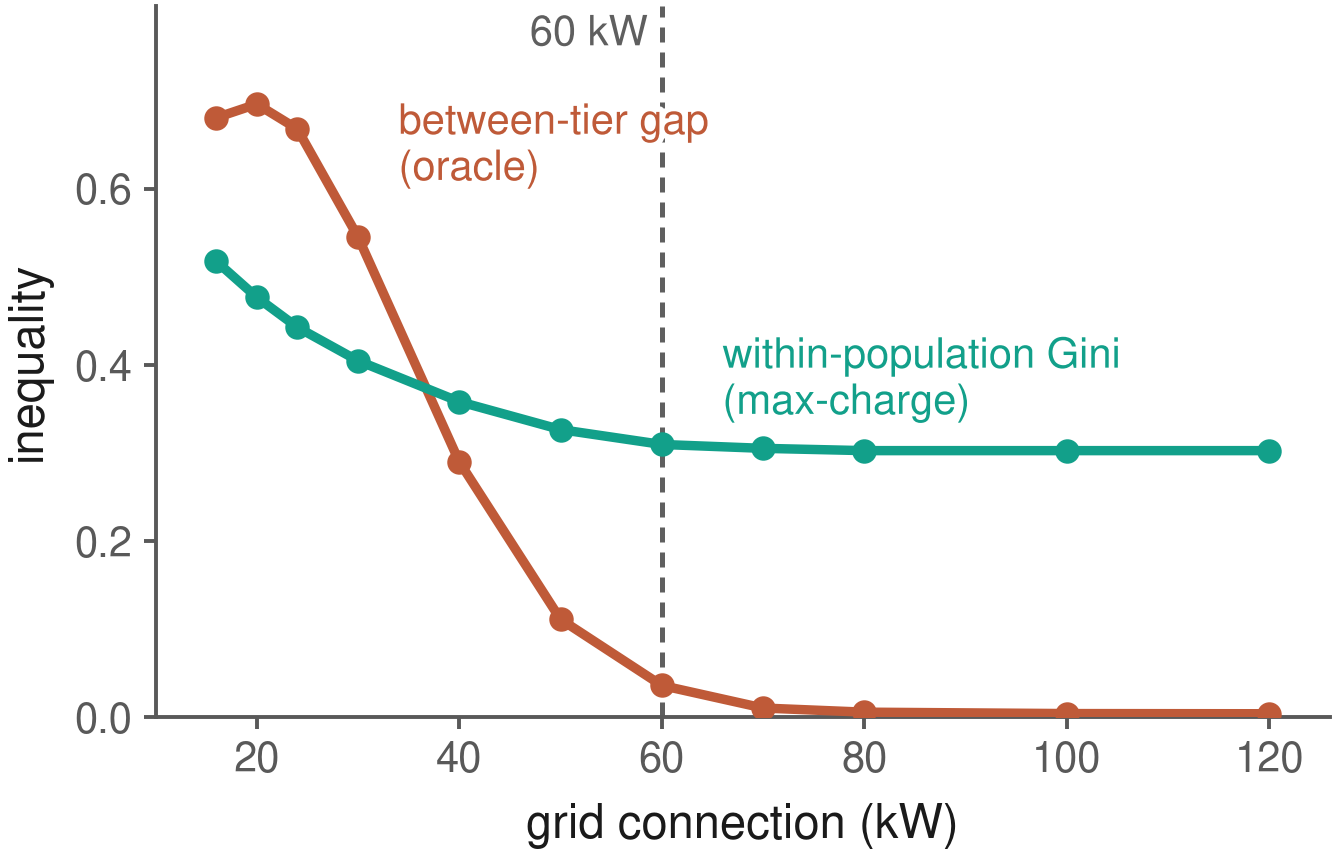
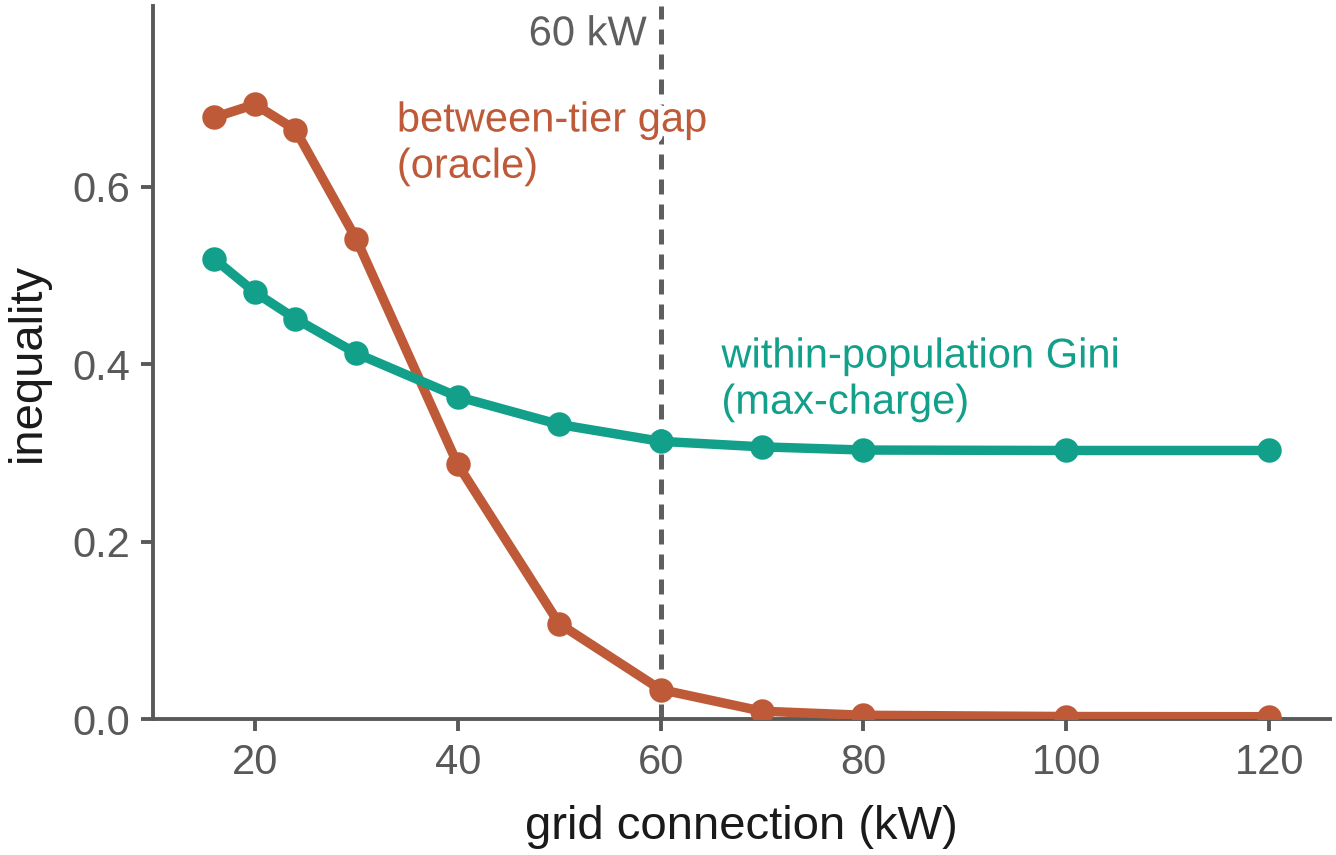
Figures for the battery-free framing; retire the in-repo manuscript
- plot_mechanism.py: revenue axis in margin-weighted kWh/day (not EUR); capacity figure
  drawn from the battery-free sweep when audit_capacity_nobattery.json exists
- audit_scarcity_severity.py: ACN-Data label placed clear of the highway label and curve
- regenerated oracle_tradeoff, capacity_threshold, scarcity_severity (results + paper)
- check_manuscript_numbers.py: recomputes every value the live manuscript prints
- paper/: manuscript now lives in Overleaf; old copy kept as
  archive_facct27_equicharge_2026-08.tex so make gate/paper still run;
  new 'make manuscript-check TEX=...' target for the Overleaf export

Claude-Session: https://claude.ai/code/session_01V4ZaVPJDMdDF6V2qS9R1Jo

diff --git a/EquiCharge-RLC2027/experiments/check_manuscript_numbers.py b/EquiCharge-RLC2027/experiments/check_manuscript_numbers.py
@@ -1,0 +1,210 @@
+"""Check that the numbers printed in the FAccT manuscript match the released results.
+
+Every value below is recomputed from the JSON files in experiments/results/ (the 256-day
+run) and looked up verbatim in the .tex file. A mismatch means the paper and the results
+have drifted apart again.
+
+Usage (from EquiCharge-RLC2027/):
+    python check_manuscript_numbers.py path/to/facct27_14pages.tex
+"""
+import json
+import math
+import os
+import re
+import sys
+
+TEX = sys.argv[1]
+RES = sys.argv[2] if len(sys.argv) > 2 else "experiments/results"
+
+
+def load(name):
+    return json.load(open(os.path.join(RES, name)))
+
+
+def norm(t):
+    """Drop comment lines and collapse whitespace so line breaks do not matter."""
+    t = "\n".join(l for l in t.split("\n") if not l.lstrip().startswith("%"))
+    return re.sub(r"\s+", " ", t)
+
+
+tex = norm(open(TEX).read())
+off = load("audit_offline.json")
+mech = load("audit_mechanism.json")
+gro = load("audit_grounding.json")
+rob = load("audit_robustness.json")
+est = load("audit_estimator_check.json")
+lev = load("audit_levers.json")
+sev = load("scarcity_severity.json")
+mg = load("audit_margin_greedy.json")
+res = load("results.json")
+
+
+def f2(x):
+    return "%.2f" % x
+
+
+def pct(x):
+    return "%d\\%%" % round(100 * x)
+
+
+def H(counts):
+    n = sum(counts.values())
+    return -sum(c / n * math.log(c / n) for c in counts.values() if c) / math.log(3)
+
+
+checks = []  # (description, string that must appear in the manuscript)
+
+# --- day count -------------------------------------------------------------------------
+assert off["n_days"] == 256 and mech["day_set"]["used_after_filter"] == 256
+checks.append(("day count", "two hundred fifty-six realized days"))
+
+# --- Table 1 (elasticity sweep) ----------------------------------------------------------
+gap_by_eta = {r["eta"]: r["gap"] for r in mech["elasticity_invariance"]}
+for eta, label in [(0.2, "elasticity $0.2$ (weak spread)"), (0.6, "elasticity $0.6$ (reference)"),
+                   (1.0, "elasticity $1.0$ (strong spread)")]:
+    g = gro["elasticity_sweep"]["%.1f" % eta]
+    row = "%s & %.3f & %s & %.1f\\%% \\\\" % (label, gap_by_eta[eta], pct(g["budget_worst_fraction"]),
+                                            g["revenue_pof_pct"]["median"])
+    checks.append(("Table 1 eta=%.1f" % eta, row))
+g0 = gro["elasticity_sweep"]["0.0"]
+checks.append(("Table 1 eta=0", "elasticity $0$ (no spread) & %.3f & %s & 0\\%% \\\\"
+               % (gap_by_eta[0.0], pct(g0["budget_worst_fraction"]))))
+
+# --- Table 2 (oracle) ----------------------------------------------------------------------
+names = [("profit", "revenue optimal"), ("utilitarian", "utilitarian"),
+         ("maximin", "tier maximin (true)"), ("egalitarian_equal", "strict equalization")]
+for key, label in names:
+    o = res["oracle"][key]
+    gm = o["group_means"]
+    row = "%s & %s & %s & %s & %s & %d \\\\" % (label, f2(gm[0]), f2(gm[1]), f2(gm[2]),
+                                               f2(o["group_disparity"]), round(o["revenue_value"]))
+    checks.append(("Table 2 " + key, row))
+
+# --- price of fairness: one definition, one value ---------------------------------------
+pof = off["box1"]["revenue_price_of_fairness_pct"]["median"]
+assert round(pof, 1) == 10.5
+checks.append(("PoF definition", "computed for each day and reported as the median over days"))
+checks.append(("PoF in text", "a median near ten and a half percent"))
+
+# --- Table 3 (tariff mechanism) -----------------------------------------------------------
+tm = {r["config"]: r for r in mech["mechanism"]}
+for cfg, label, margins, spread in [
+        ("status_quo_distinct", "tiered (status quo)", "0.6, 1.0, 1.5", "0.9"),
+        ("premium_capped_to_mid", "premium cap to middle", "0.6, 1.0, 1.0", "0.4"),
+        ("budget_tied_to_mid", "budget subsidy to parity", "1.0, 1.0, 1.5", "0.5"),
+        ("fully_flat", "income neutral (equal)", "all equal", "0.0")]:
+    checks.append(("Table 3 " + cfg, "%s & %s & %s & %s &" % (label, margins, spread, f2(tm[cfg]["gap"]))))
+checks.append(("rank chart caption", "($%s$ versus $%s$)" % (f2(tm["premium_capped_to_mid"]["gap"]),
+                                                              f2(tm["budget_tied_to_mid"]["gap"]))))
+
+# --- Table 4 (sites) -----------------------------------------------------------------------
+sites = [("reference_16ch_30kW_residential_eu", "reference (16 ch, 30 kW)", "%.2f"),
+         ("highway_20ch_45kW_eu_highrate", "highway (20 ch, 45 kW)", "%.2f"),
+         ("workplace_24ch_55kW_us", "workplace (24 ch, 55 kW)", "%.3f"),
+         ("shopping_8ch_16kW_world", "shopping (8 ch, 16 kW)", "%.2f")]
+for cfg, label, gfmt in sites:
+    c = rob["configs"][cfg]
+    pd_gap = est["check1_rotation"][cfg]["per_day_gap_median"]
+    p = c["revenue_pof_pct"]["median"]
+    pof_cell = "0\\%" if round(p, 1) == 0 else "%.1f\\%%" % p
+    gam = gfmt % c["profit_optimal_disparity_dayavg"]
+    row = "%s & %s & %s" % (label, pct(c["budget_worst_fraction"]), gam)
+    checks.append(("Table 4 %s (worst, Gamma)" % label, row))
+    checks.append(("Table 4 %s (per-day, H, PoF)" % label,
+                   "%s & %s & %s \\\\" % (f2(pd_gap), f2(H(c["worst_tier_days"])), pof_cell)))
+
+# --- levers --------------------------------------------------------------------------------
+pl, cl = lev["pricing_lever_30kW_sq_to_flat"], lev["capacity_lever_sq_30_to_90kW"]
+checks.append(("capacity lever", "between-tier gap, by about $%s$, and the within-population inequality, by about $%s$"
+               % (f2(cl["d_between_tier_gap"]), f2(cl["d_within_tier_gini"]))))
+checks.append(("pricing lever", "between-tier gap, about $%s$, while barely moving the within-population inequality, about $%s$"
+               % (f2(pl["d_between_tier_gap"]), f2(pl["d_within_tier_gini"]))))
+
+# --- severity axis ------------------------------------------------------------------------
+sw = {r["grid_kw"]: r for r in sev["capacity_sweep"]}
+checks.append(("severity sweep start", "collapses from $%s$ to noise" % f2(sw[40]["gamma"])))
+checks.append(("severity shopping/highway", "with $\\Gamma\\approx %s$ and highway at $\\rho\\approx %.1f$ with $\\Gamma\\approx %s$"
+               % (f2(sev["sites"]["shopping"]["gamma"]), sev["sites"]["highway"]["demand_capacity_ratio"],
+                  f2(sev["sites"]["highway"]["gamma"]))))
+assert "acn" in sev["sites"]  # the released file includes ACN; the figure in this version omits it
+
+# --- margin-greedy (Appendix B), battery-free station ------------------------------
+mgn = load("audit_margin_greedy_nobattery.json")
+r = mgn["reference"]
+checks.append(("greedy Gamma and H", "$\\Gamma\\approx %s$ and rotation entropy $H\\approx %s$"
+               % (f2(r["gamma"]), f2(r["worst_tier_entropy"]))))
+others = mgn["other_online_baselines"]
+gmin, gmax = min(v["gamma"] for v in others.values()), max(v["gamma"] for v in others.values())
+checks.append(("non-rationing heuristics", "$\\Gamma\\approx %.3f$ to $%.3f$" % (gmin, gmax)))
+assert round(min(v["worst_tier_entropy"] for v in others.values()), 2) == 1.00
+assert round(r["budget_worst_share"] * 100) == 85
+checks.append(("greedy budget-worst share", "worst-served on eighty-five percent of days"))
+checks.append(("greedy offline gap, same days", "of the offline optimum's gap on the same days ($%s$)"
+               % f2(r["offline_profit_optimal"]["gamma"])))
+sweep = {s_["grid_kw"]: s_ for s_ in mgn["scarcity_sweep"]}
+checks.append(("greedy sweep", "gap falls from about $%s$ at thirty kilowatts" % f2(sweep[30.0]["gamma"])))
+checks.append(("greedy sweep 45 kW", "to about $%s$ by forty-five kilowatts" % f2(sweep[45.0]["gamma"])))
+checks.append(("greedy sweep 60 kW", "to about $%s$ by sixty" % f2(sweep[60.0]["gamma"])))
+checks.append(("greedy profit", "about %d euros per day against about %d for max-charge"
+               % (round(r["profit_per_day"]["mean"]), round(others["max_charge"]["profit_per_day"]["mean"]))))
+checks.append(("greedy with battery", "same controller still reproduces the harm, with $\\Gamma\\approx %s$"
+               % f2(mg["reference"]["gamma"])))
+
+# --- battery sweep (Section 6 and appendix table) -----------------------------------
+bs = {r_["capacity_kwh"]: r_ for r_ in load("audit_battery_sweep.json")["rows"]}
+assert load("audit_battery_sweep.json")["n_days"] == 256
+checks.append(("storage paragraph", "from $%s$ without storage to $%s$ at 100 kWh and $%s$ at 150 kWh"
+               % (f2(bs[0.0]["gamma"]), f2(bs[100.0]["gamma"]), f2(bs[150.0]["gamma"]))))
+for cap, r_ in bs.items():
+    checks.append(("battery table %d kWh" % cap, "%d & %.2f & %.2f & %.2f & %d\\%% & %d \\\\"
+                   % (cap, r_["gamma"], r_["tier_means"][0], r_["tier_means"][2],
+                      round(100 * r_["budget_worst_share"]), round(r_["delivered_kwh_mean"]))))
+assert load("audit_battery.json")["chain_identity_with_battery"]["max_abs_dev_kwh"] < 1e-9
+
+# --- tier-to-income propagation (Appendix D) ------------------------------------------
+gam = rob["configs"]["reference_16ch_30kW_residential_eu"]["profit_optimal_disparity_dayavg"]
+checks.append(("propagation", "an income-level gap of $%s$ at $\\kappa=0.8$, $%s$ at $\\kappa=0.5$, and $%s$"
+               % (f2(0.8 * gam), f2(0.5 * gam), f2(gam / 3))))
+
+# --- priority neutrality (Option B) -------------------------------------------------
+pn = load("audit_priority_neutral.json")
+assert pn["n_days"] == 256
+u = pn["objectives"]["utilitarian"]; pr = pn["objectives"]["profit"]
+checks.append(("neutrality: budget tier", "lifts the budget tier from %s to %s"
+               % (f2(pr["tier_means"][0]), f2(u["tier_means"][0]))))
+checks.append(("neutrality: median cost", "median cost of %.1f percent of revenue"
+               % pn["price_of_neutrality_pct"]["median"]))
+flat = pr["revenue_mean"] / pr["delivered_kwh_mean"]   # Theorem 5.4: same energy at any flat optimum
+assert round(pn["price_of_neutrality_pct"]["median"]) == 10
+checks.append(("neutrality cost in Sec. 7", "priority neutrality is a private revenue transfer near ten percent"))
+checks.append(("revenue-neutral flat margin", "from 0.6 to about %.2f" % flat))
+assert abs(pr["delivered_kwh_mean"] - u["delivered_kwh_mean"]) < 1e-6
+
+# --- ACN-Data fifth site ------------------------------------------------------------
+acn = rob["configs"]["acn_data_caltech_8ch_30kW"]
+acn_est = load("audit_estimator_check_acn.json")["check1_rotation"]["acn_data_caltech_8ch_30kW"]
+assert acn["lp_success"] == 255 and acn_est["days"] == 255
+checks.append(("Table sites ACN row", "ACN-Data (16 ch, 30 kW) & %s & %s & %s & %s & %.1f\\%% \\\\"
+               % (pct(acn["budget_worst_fraction"]), f2(acn["profit_optimal_disparity_dayavg"]),
+                  f2(acn_est["per_day_gap_median"]), f2(H(acn["worst_tier_days"])),
+                  acn["revenue_pof_pct"]["median"])))
+checks.append(("sites text ACN gap", "$0.25$ on the Caltech ACN-Data sessions"))
+checks.append(("severity ACN", "at $\\rho\\approx %s$ with $\\Gamma\\approx %s$ against the curve's $%s$"
+               % (f2(sev["sites"]["acn"]["demand_capacity_ratio"]), f2(sev["sites"]["acn"]["gamma"]),
+                  f2(sev["sites"]["acn"]["sweep_gamma_at_same_rho"]))))
+prov = acn["layout"]
+assert prov["sessions_used"] == 27584 and prov["date_range_used"][0].startswith("2018-04")
+checks.append(("ACN sessions", "27,584 sessions at the Caltech garage between April 2018 and February 2020"))
+# subsidy leaves about half the gap or more at every power-bound site
+for cfg in ("reference_16ch_30kW_residential_eu", "highway_20ch_45kW_eu_highrate", "acn_data_caltech_8ch_30kW"):
+    lv = rob["configs"][cfg]["tariff_lever"]
+    assert lv["budget_subsidy_parity_disparity"] / lv["status_quo_disparity"] > 0.45, cfg
+    assert lv["income_neutral_disparity"] / lv["status_quo_disparity"] < 0.10, cfg
+
+failed = 0
+for desc, needle in checks:
+    ok = norm(needle) in tex
+    failed += not ok
+    print("%-4s %s" % ("ok" if ok else "FAIL", desc + ("" if ok else "   expected: " + needle)))
+print("\n%d checks, %d failed" % (len(checks), failed))
+sys.exit(1 if failed else 0)

diff --git a/EquiCharge-RLC2027/experiments/plot_mechanism.py b/EquiCharge-RLC2027/experiments/plot_mechanism.py
@@ -118,7 +118,7 @@ def plot_oracle(M):
     bars[0].set_color(HARM)  # profit optimum earns the premium -- the cost of fairness
     S.clean(ax2)
     ax2.set_xticks(x); ax2.set_xticklabels(xl)
-    ax2.set_ylabel("revenue (€/day)"); ax2.set_ylim(0, max(revs) * 1.22)
+    ax2.set_ylabel("margin-weighted kWh/day"); ax2.set_ylim(0, max(revs) * 1.22)
     S.label_line(ax2, x[0], revs[0], "revenue-optimal", HARM, dy=9, ha="center", va="bottom")
     S.savefig(fig, os.path.join(FIGDIR, "oracle_tradeoff.png"))
 
@@ -385,7 +385,10 @@ def main(argv=None):
     acn_mech = _load_optional("audit_mechanism_acn.json")
     plot_scarcity_boundary(_load("audit_robustness.json"), chk, acn_chk, acn_mech)
     plot_levers(_load("audit_levers.json"))
-    plot_capacity(_load("audit_capacity.json"))
+    # The paper audits the reference site without its on-site battery, so the capacity
+    # sweep comes from the battery-free run when it exists (experiments/run_nobattery.py).
+    cap_nb = _load_optional("audit_capacity_nobattery.json")
+    plot_capacity(cap_nb if cap_nb is not None else _load("audit_capacity.json"))
     if not a.outdir:
         sync_to_paper()
 

diff --git a/EquiCharge-RLC2027/experiments/audit_scarcity_severity.py b/EquiCharge-RLC2027/experiments/audit_scarcity_severity.py
@@ -169,7 +169,7 @@ LABEL_POS = {  # site -> (dx, dy, ha, va)
     "highway": (0, 7, "center", "bottom"),
     "shopping": (7, -1, "left", "center"),
     "workplace": (-6, 5, "right", "bottom"),
-    "acn": (7, 4, "left", "bottom"),
+    "acn": (0, -7, "center", "top"),  # below the point, clear of the highway label and the curve
 }
 #: Used for any site without an explicit entry, so adding a site never crashes the plot.
 LABEL_POS_DEFAULT = (7, 0, "left", "center")

diff --git a/EquiCharge-RLC2027/paper/README.md b/EquiCharge-RLC2027/paper/README.md
@@ -1,0 +1,18 @@
+# Manuscript
+
+The live FAccT 2027 manuscript ("Who Charges Last?") is maintained in Overleaf, not here.
+
+`archive_facct27_equicharge_2026-08.tex` is the August 2026 version that used to live in this
+folder. It is kept so `make gate` and `make paper` still run, but it is superseded: it predates
+the battery-free framing, the optimal-face and storage tables, the priority-neutrality remedy,
+and the ACN-Data site.
+
+`figures/` holds the figures the manuscript uses. `make figures` regenerates them from
+`experiments/results/` and syncs them here.
+
+To check the live manuscript against the released results, export the `.tex` from Overleaf and run
+
+    make manuscript-check TEX=path/to/main.tex
+
+which runs `experiments/check_manuscript_numbers.py` (the values the current text prints,
+recomputed from the result files) and the general numeral gate.

diff --git a/EquiCharge-RLC2027/README.md b/EquiCharge-RLC2027/README.md
@@ -235,7 +235,7 @@ env = EquiChargax(station=station, welfare_alpha=0.0, welfare_outer="rawlsian",
   [`tariffs`](chargax/equity/tariffs.py) analysis, and real-data
   [`data_calibration`](chargax/equity/data_calibration.py) provenance + ACN-Data hook.
 * **Data provenance** (what is real vs. modelled): see [`docs/DATA.md`](docs/DATA.md).
-* **Paper** (the socio-technical audit): [`paper/facct27_equicharge.tex`](paper/facct27_equicharge.tex).
+* **Paper** (the socio-technical audit): the live manuscript is kept in Overleaf, see [`paper/README.md`](paper/README.md).
   Submission checklist and change log: [`docs/FACCT_SUBMISSION.md`](docs/FACCT_SUBMISSION.md).
 * **Reproduce:**
   ```bash
